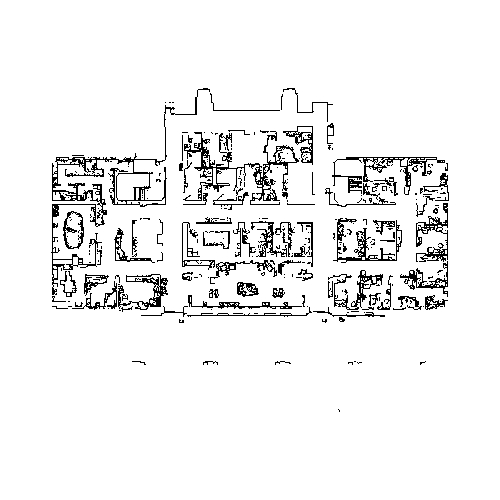
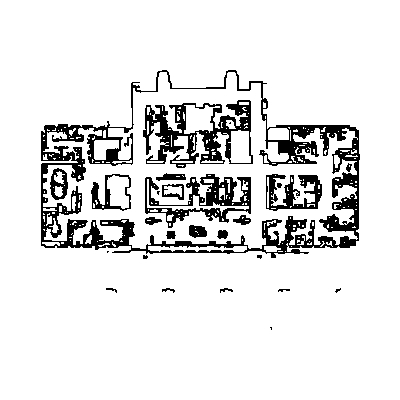
Fized resizing

diff --git a/scripts/resize.py b/scripts/resize.py
@@ -8,21 +8,12 @@ import torch
 for cluster in os.listdir('src/neural_astar/utils/voronoi_utilities/maps_data/maps'):
     if not cluster.endswith('_resized') and cluster != "DiscardedImages":
         for img in os.listdir('src/neural_astar/utils/voronoi_utilities/maps_data/maps/'+cluster):
-            image = Image.open('src/neural_astar/utils/voronoi_utilities/maps_data/maps/'+cluster+'/'+img).convert('1')
+            image = Image.open('src/neural_astar/utils/voronoi_utilities/maps_data/maps/'+cluster+'/'+img)
 
-            pixel_data = image.getdata()
 
-            # Conta i pixel neri (0) e bianchi (255)
-            black = sum(1 for pixel in pixel_data if pixel == 0)
-            total_pixel = len(pixel_data)
 
-            # Calcola la percentuale di nero
-            perc_black = (black / total_pixel) * 100
-
-            if perc_black >= 5.0:
-
-                if image.size[0] >= 800 and image.size[1] >= 800:
-                    res=image.resize((500, 500), Image.LANCZOS)
+            if image.size[0] >= 800 and image.size[1] >= 800:
+                    res=transforms.Resize(400)(image)
 
                     transform = transforms.Compose([
                                 transforms.ToTensor()
@@ -30,12 +21,28 @@ for cluster in os.listdir('src/neural_astar/utils/voronoi_utilities/maps_data/ma
 
                     image_tensor = transform(res) 
 
-                    # Ottieni i dati dei pixel
+                    image_tensor = torch.clamp(image_tensor.mean(0), 0, 1)
 
+                    image_tensor[image_tensor<0.9] = 0
+                    image_tensor[image_tensor>=0.9] = 1
 
-                    name = img.split(".")[0]
+                    newImage = transforms.ToPILImage()(image_tensor.detach())
 
-                    transforms.ToPILImage()(image_tensor).save('src/neural_astar/utils/voronoi_utilities/maps_data/maps/'+cluster+'_resized/'+name+".jpg", quality=100)
-                else:
+                    pixel_data = newImage.getdata()
+
+                    # Conta i pixel neri (0) e bianchi (255)
+                    black = sum(1 for pixel in pixel_data if pixel == 0)
+                    total_pixel = len(pixel_data)
+
+                    # Calcola la percentuale di nero
+                    perc_black = (black / total_pixel) * 100
+
+                    if perc_black >= 9.0:
+
+                        name = img.split(".")[0]
+
+                        newImage.save('src/neural_astar/utils/voronoi_utilities/maps_data/maps/'+cluster+'_resized/'+name+".jpg", quality=100)
+                    else : image.save('src/neural_astar/utils/voronoi_utilities/maps_data/maps/DiscardedImages/' + img )
+            else:
                     image.save('src/neural_astar/utils/voronoi_utilities/maps_data/maps/DiscardedImages/' + img )
-            else: image.save('src/neural_astar/utils/voronoi_utilities/maps_data/maps/DiscardedImages/' + img )
+            

diff --git a/src/neural_astar/utils/voronoi_utilities/voronoi_graph_generator.py b/src/neural_astar/utils/voronoi_utilities/voronoi_graph_generator.py
@@ -248,7 +248,7 @@ class VoronoiGraphGenerator:
             for neighbor in current_node.get_connected_nodes():
                 if neighbor not in visited:
                     queue.append(neighbor)
-        return [node for node in reachable_nodes if (self.dist_between(start_node, node)) >= 10]
+        return [node for node in reachable_nodes if (self.dist_between(start_node, node)) >= 20]
                     
     def select_reachable_nodes(self) -> List[Tuple[Node, Node]]:
         '''
@@ -257,7 +257,7 @@ class VoronoiGraphGenerator:
         '''
         nodes = list(self._graph.get_nodes().values())
         lenght = len(self._graph.get_nodes())
-        couples = 10
+        couples = 5
 
         result: List[Tuple[Node, Node]] = []
        

diff --git a/scripts/create_dataset_maps.py b/scripts/create_dataset_maps.py
@@ -44,12 +44,11 @@ def process(dir: str, cluster: str, image: str):
                     transforms.ToTensor()
                 ])
 
-        image_tensor = transform(img) 
+        image_tensor = transform(img)
 
 
-        map_design = torch.clamp(image_tensor.mean(0), 0, 1)
-        map_design[map_design<0.9] = 0
-        map_design[map_design>=0.9] = 1
+        map_design = torch.clamp(image_tensor.mean(0), 0, 1).detach()
+
        
         #Grafo di voronoi
         split = image.split('_floor_')
